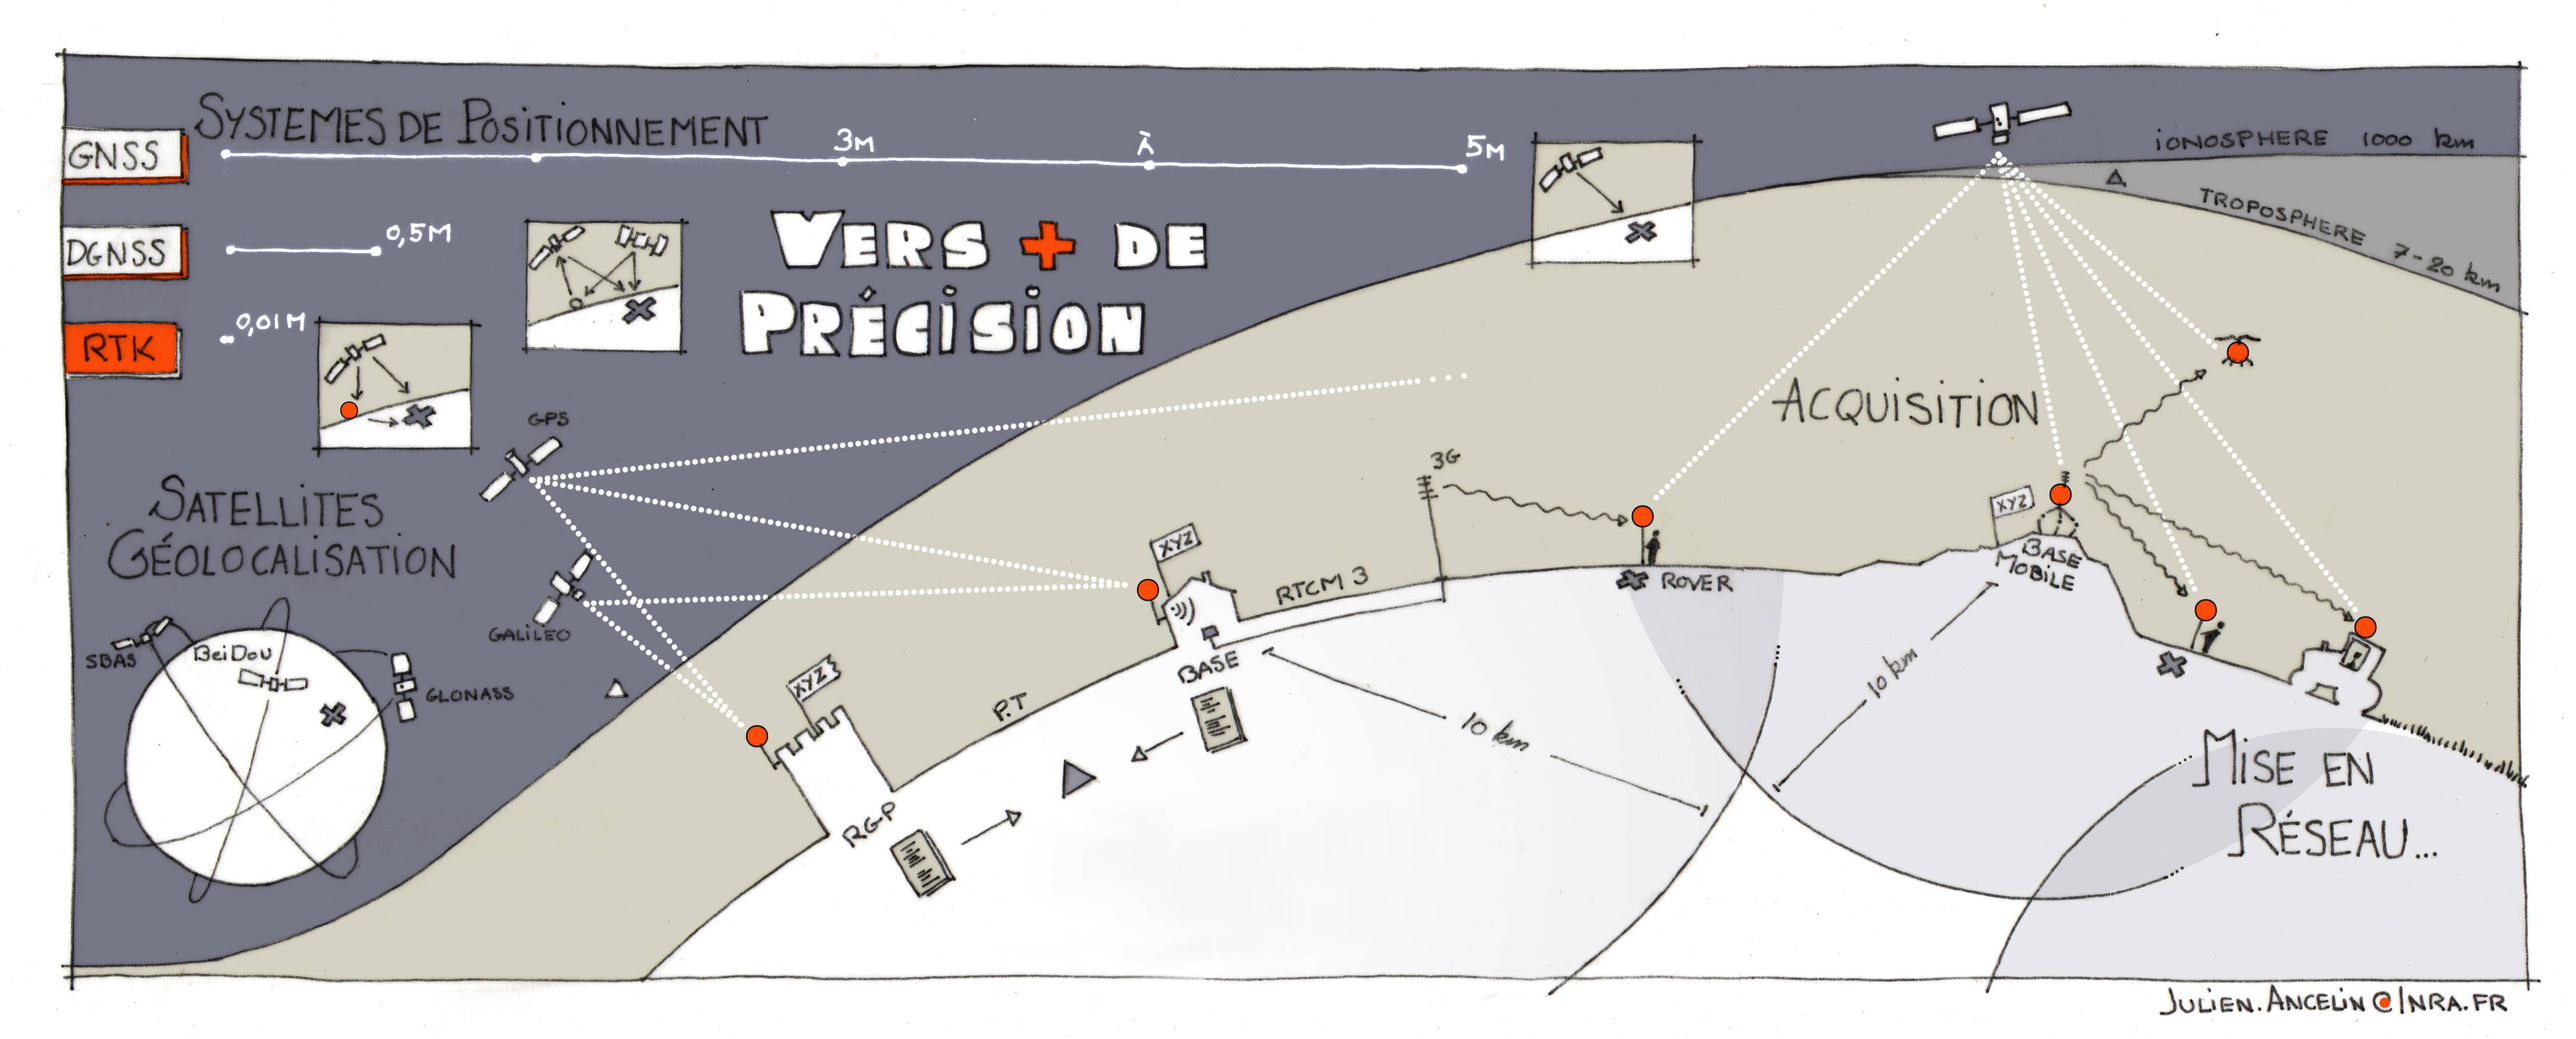
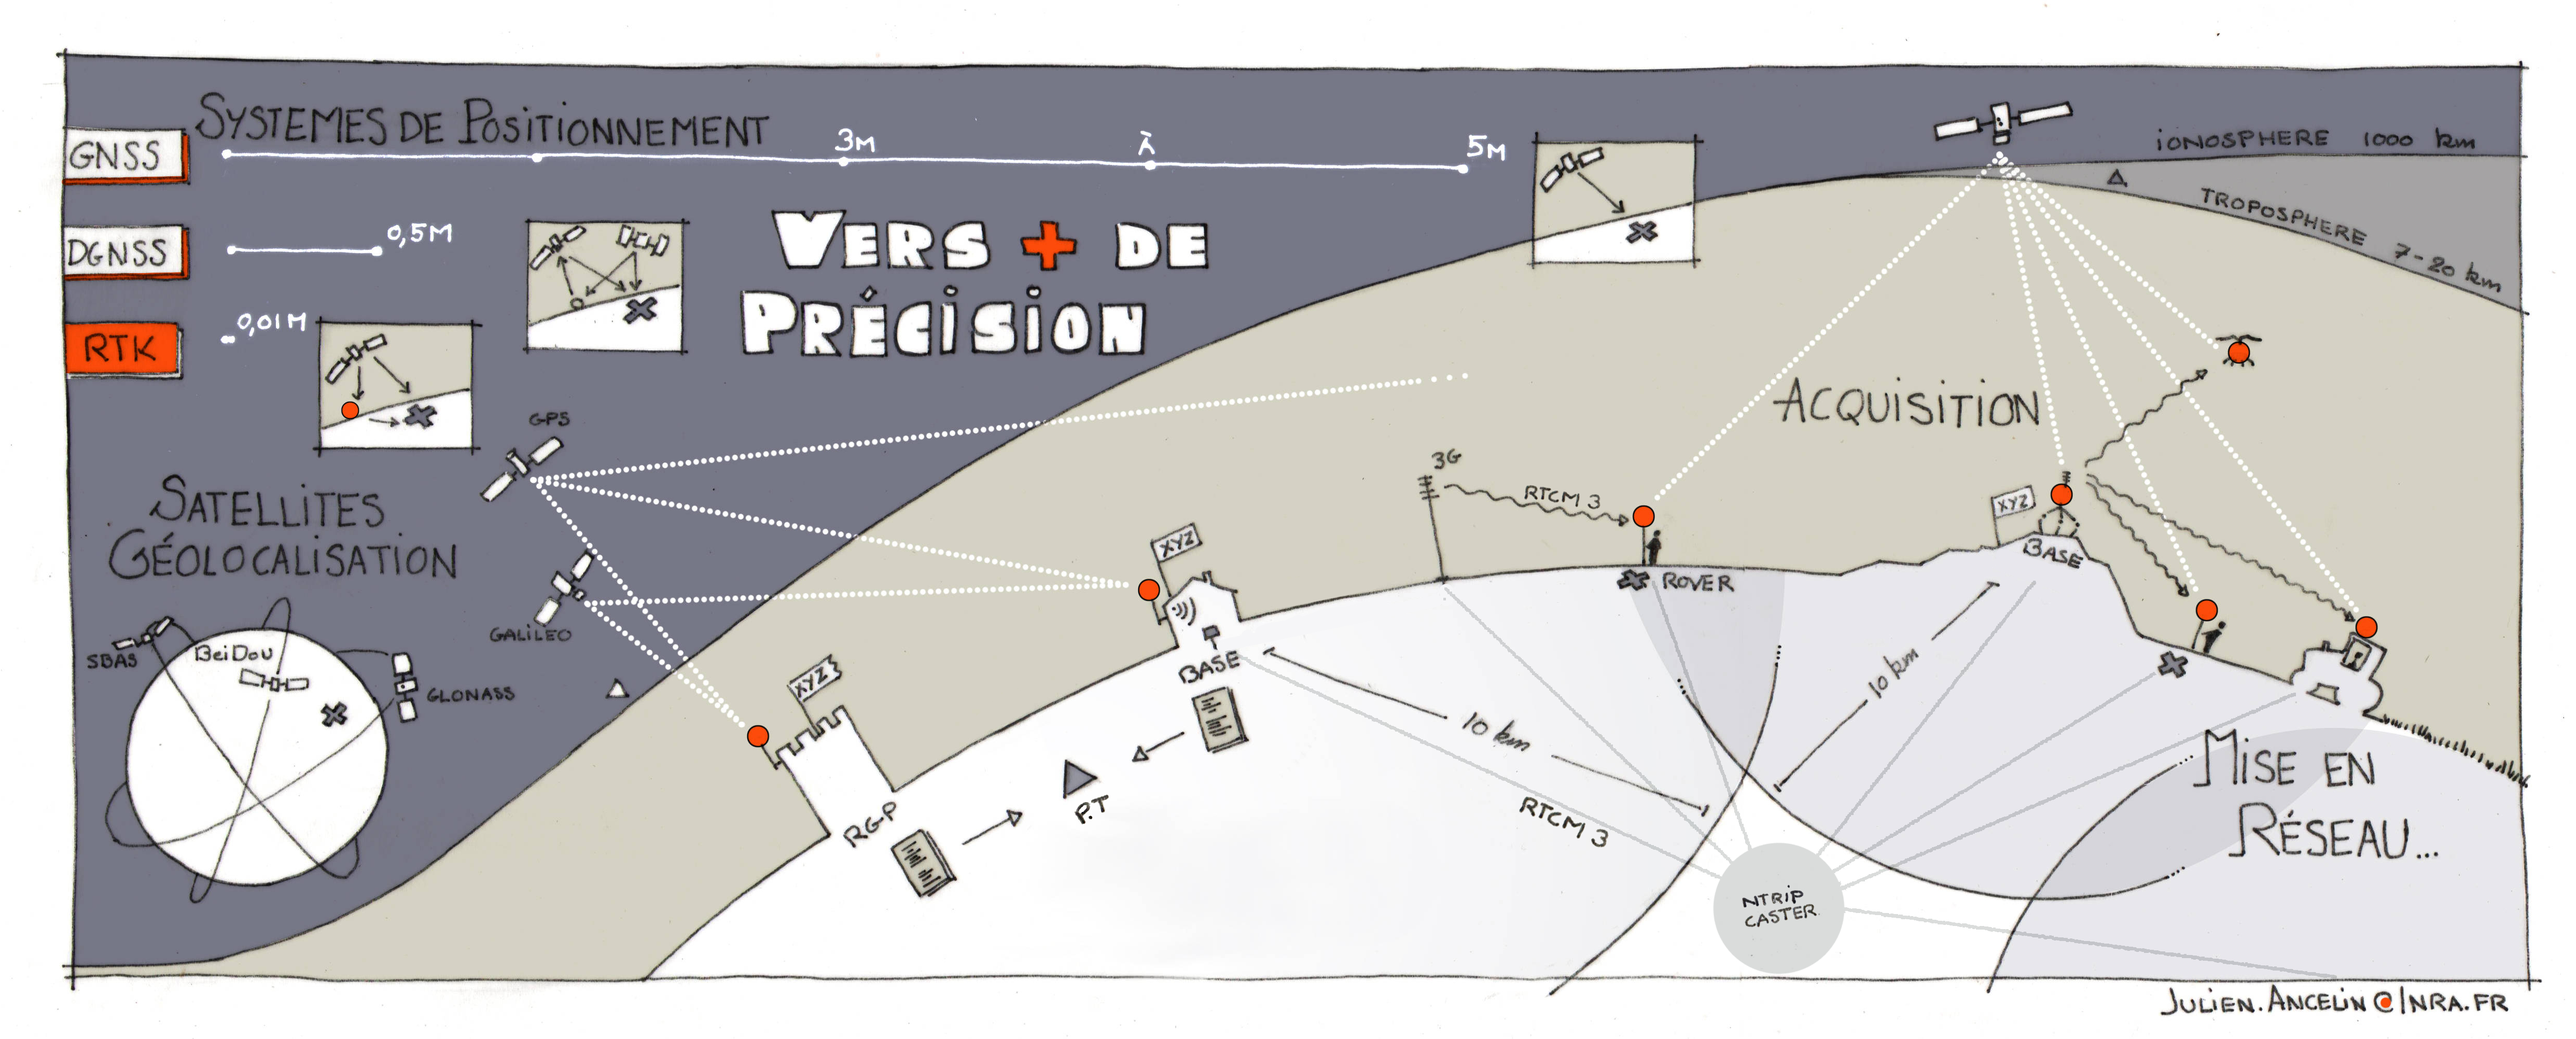
update présentation centipede

diff --git a/docs/index.html b/docs/index.html
@@ -119,7 +119,7 @@
 			  <!-- aquisition -->
 			  <section>
 				  <section data-background-image="images/1.jpg" data-background-size="100%" data-background-position="0% 30%">
-				  <section>positionnement & aquisition</section>
+				  <section>Positionnement & aquisition</section>
 				  </section>
 				  <section data-markdown>
 				  # Matériel / Logiciel / Webservice
@@ -133,7 +133,7 @@
 				<!-- satelittes -->
 				<section>
 				  <section data-background-image="images/1.jpg" data-background-size="100%" data-background-position="0% 30%" >
-				  <section>satellites</section>
+				  <section>Satellites</section>
 				  </section>
 				  <section data-markdown>
 				  ![sat -half ](images/noise.png)
@@ -143,7 +143,7 @@
 				<!-- ppp -->
 				<section>
 				  <section data-background-image="images/1.jpg" data-background-size="100%" data-background-position="0% 30%" >
-				  <section>RGP / Base RTK & Post Traitement</section>
+				  <section>Calcul de la position de la base: RGP / Base RTK & Post Traitement</section>
 				  </section>
 				  <section data-markdown>
 				  #Reseau GNSS Permanent
@@ -160,14 +160,14 @@
 				  # Post Traitement: RTKlib
 				  ![sat -half ](images/rtklib.png)
 				  ![sat -half ](images/ppp.png)
-				  ![sat -half ](images/ppp1.jpg)
+				  ![sat -half ](images/ppp1.png)
 				  </section>
 				</section>
 				
 				<!-- rtcm3 -->
 				<section>
 				  <section data-background-image="images/1.jpg" data-background-size="100%" data-background-position="0% 30%" >
-				  <section>diffusion RTCM3</section>
+				  <section>diffusion de la correction RTCM3: TCP, radio, NTRIP</section>
 				  </section>
 				  <section data-markdown>
 				  # RTCM3
@@ -192,31 +192,48 @@
 			    ![sat -half ](images/geves.png)
 			    ![sat -half ](images/ZA.jpg)
 			    ![sat -half ](images/region.jpg)
-			    ![sat -half ](images/rtk_map.png)
+			    ![sat -half ](images/rtkmap1.png)
 			    * Réseau RTK
 				  </section>
-				  
+				
+					<!-- exemples -->  
 				  <section data-markdown>
-				  ### test de précision
+				  ### Test de précision
 				  ![sat -half ](images/sdne.png)
 				  </section>
 				  <section data-markdown>
-				  ### Exemple d'utilisation: faune
+				  ### Exemple d'utilisation: Etude des Limicoles
 				  ![sat -half ](images/limi.png)
 				  </section>
 				  <section data-markdown>
-				  ### Exemple d'utilisation: flore
+				  ### Exemple d'utilisation: Etude de la flore du marais Rochefortais
 				  ![sat -half ](images/flore.png)
 				  </section>
 				  <section data-markdown>
-				  ### Exemple d'utilisation: autoguidage
+				  ### Exemple d'utilisation: topographie http://complement-terre.fr	  
+				  ![sat -half ](images/alti.png)
+				  </section>
+				  <section data-markdown>
+				  ### Exemple d'utilisation: Projet Unlimited, trace d'un danseur
+				  ![sat -half ](images/unlimited.png)
+				  </section>
+				  <section data-markdown>
+				  ### Exemple d'utilisation: Projet Unlimited, trace d'un cycliste
+				  ![sat -half ](images/bike.png)
+				  </section>
+				  <section data-markdown>
+				  ### Exemple d'utilisation: Tamata Océan, Open Data maritime (marée montante)
+				  ![sat -half ](images/bateau.png)
+				  </section>
+				  <section data-markdown>
+				  ### Exemple d'utilisation: autoguidage Tracteur
 				  ![sat -half ](images/tracteur1.jpg)
 				  ![sat -half ](images/autoguid.jpg)
 				  ![sat -half ](images/ble.jpg)
 				  </section>
 				  <section data-markdown>
-				  ### Exemple d'utilisation: topographie http://complement-terre.fr	  
-				  ![sat -half ](images/alti.png)
+				  ### Exemple d'utilisation: autoguidage Tracteur AgOpenGps
+				  ![sat -half ](images/agopengps.png)
 				  </section>
 				</section>
 				
